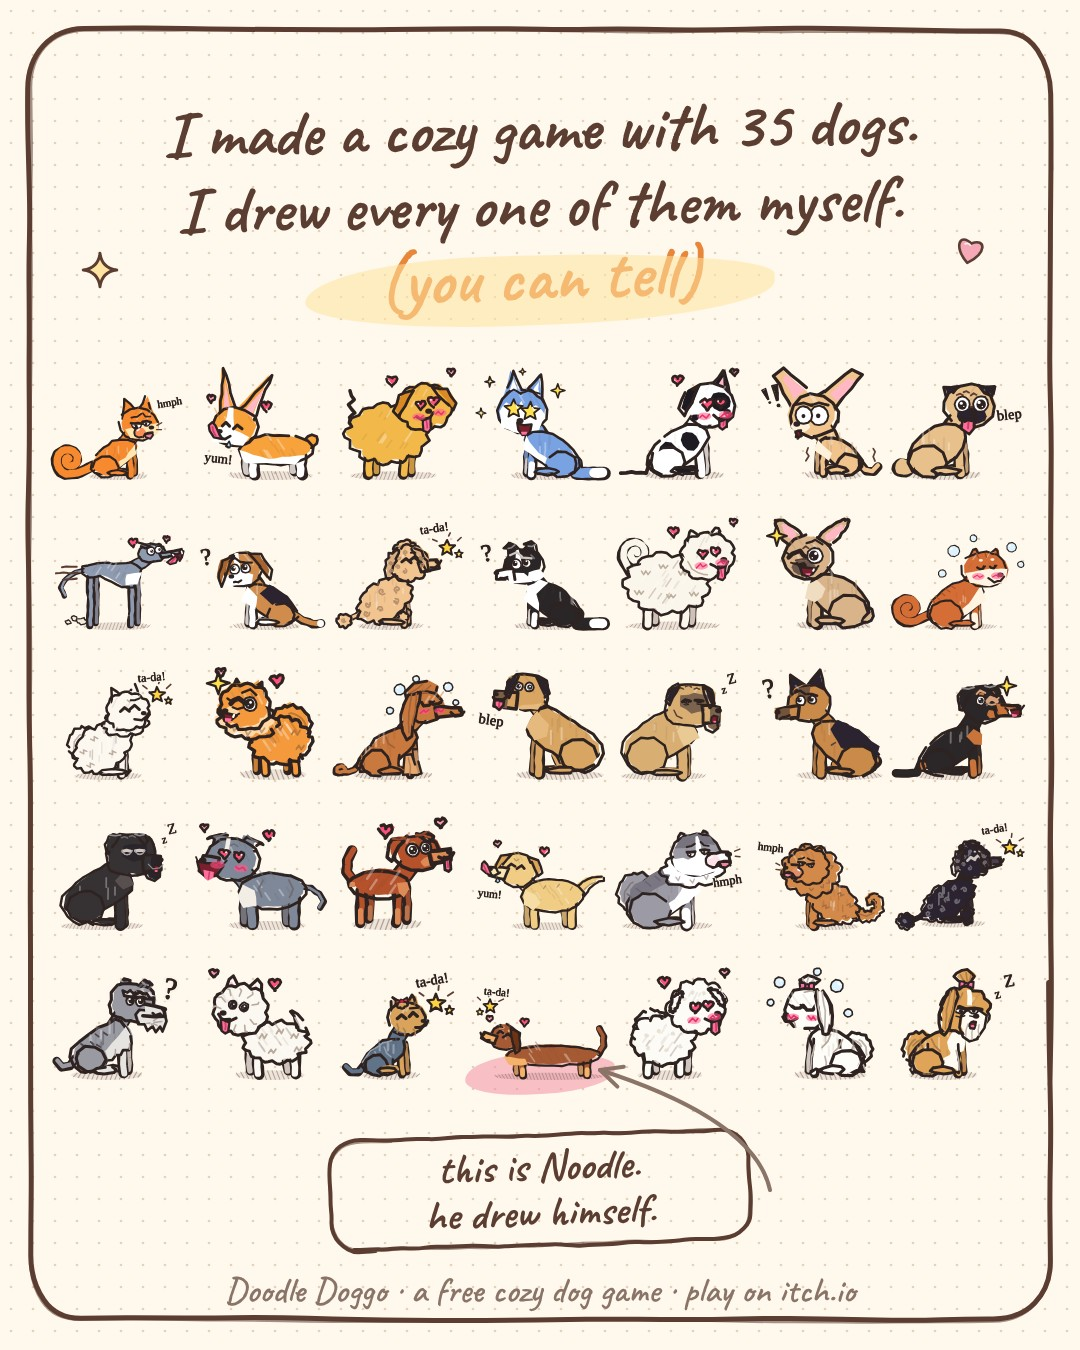
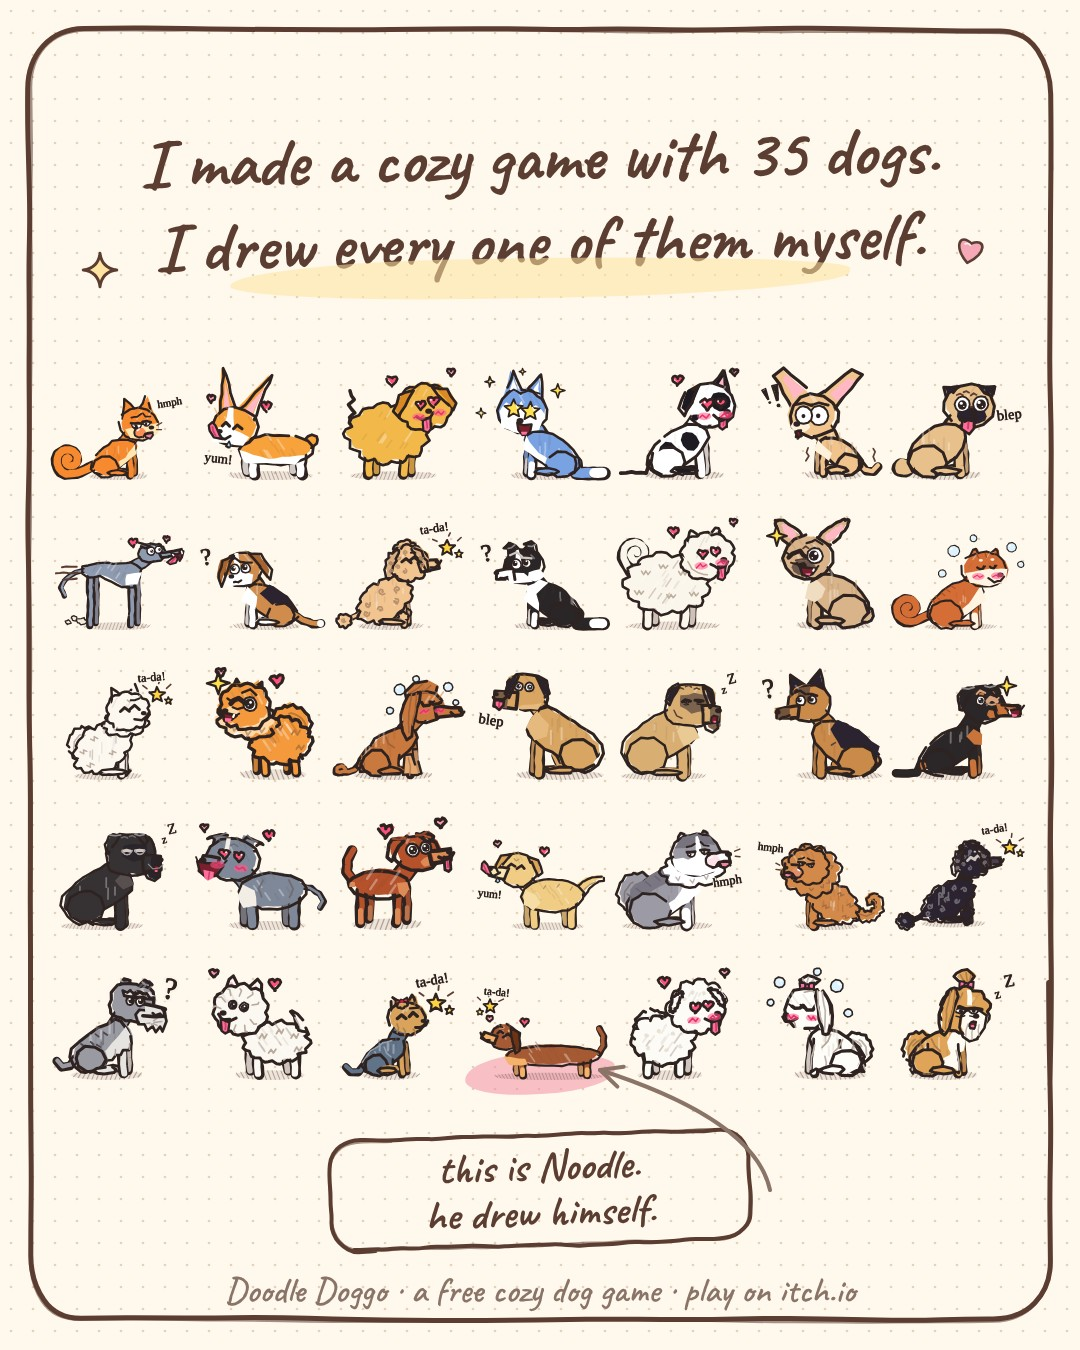
Marketing: Threads picture and post without "you can tell" (owner)
Claude-Session: https://claude.ai/code/session_01RbDn8fDrvJ9BSr31nohXvJ

Changed region(s): [[0.1222, 0.0622, 0.8556, 0.2489]]

diff --git a/brand/instagram/launch/make_threads.js b/brand/instagram/launch/make_threads.js
@@ -1,4 +1,4 @@
-// Threads post picture (1080 x 1350, 4:5, what Threads shows best): "I made a cozy game with 35 dogs. I drew every one myself. (You can tell.)"
+// Threads post picture (1080 x 1350, 4:5, what Threads shows best): "I made a cozy game with 35 dogs. I drew every one of them myself."
 // over a line-up of all 35 dogs, Noodle pointed out. The dogs are the real art (PawArt.dog). Output: brand/threads/threads-35-dogs.jpg.
 const fs = require('fs'), path = require('path');
 module.exports = async function ({ render, browser, helpers: h }) {
@@ -19,8 +19,8 @@ module.exports = async function ({ render, browser, helpers: h }) {
   // Noodle in the middle of the bottom row, so the note can sit right under him
   const order = keys.filter((k) => k !== 'dachs'); order.splice(31, 0, 'dachs');
   let g = paper(W, H) + frame(W, H, 77)
-    + lines(['I made a cozy game with 35 dogs.', 'I drew every one of them myself.'], 540, 150, 66, 76, { rot: -1 })
-    + txt('(you can tell)', 540, 300, 72, { rot: -2, fill: ORANGE }) + swash(540, 290, 470, 70, -2, '#FFE3A1', 0.55);
+    + lines(['I made a cozy game with 35 dogs.', 'I drew every one of them myself.'], 540, 180, 70, 84, { rot: -1 })
+    + swash(540, 278, 620, 40, -1, '#FFE3A1', 0.55);
   const COLS = 7, CW = 140, X0 = (W - COLS * CW) / 2, Y0 = 350, RH = 150;
   for (let i = 0; i < order.length; i++) {
     const k = order[i], [pose, expr] = LOOK[k] || ['sit'], c = i % COLS, r = Math.floor(i / COLS), cx = X0 + c * CW + CW / 2, bottom = Y0 + r * RH + 130;

diff --git a/docs/marketing/THREADS.md b/docs/marketing/THREADS.md
@@ -8,11 +8,9 @@ File: `brand/threads/threads-35-dogs.jpg` (1080 x 1350, 4:5). All 35 dogs in a l
 
 **When:** a weekday at 9:00 JST (8 pm the evening before in New York, 1 am in London), so it lands in the US evening scroll. Reply to every comment in the first hour.
 
-**Post** (about 330 characters)
+**Post** (about 280 characters)
 ```
 I made a cozy browser game with 35 dogs, and I drew every single one of them myself.
-
-You can tell.
 
 They have their own voices, they make faces now (14 of them, the blep is my favourite), and they walk around a little pencil town with Mt. Fuji in the back.
 
